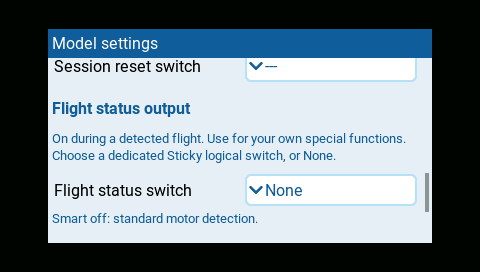
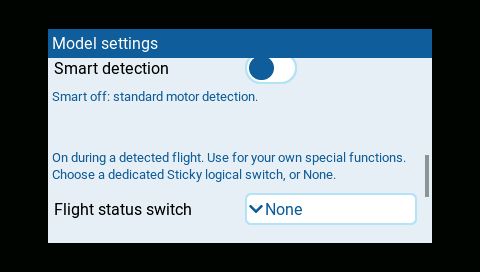
Move Flight status switch into Flight detection
Place the Flight status switch at the end of the Flight detection section
in Model settings, show Smart status directly under Smart detection, and
refresh the Model settings screenshots and capture scripts.

diff --git a/tools/capture-editor.py b/tools/capture-editor.py
@@ -710,20 +710,19 @@ def capture(executable, library, directory, scene, shift=0):
             # activating UI setup when the gesture ends.
             script += "1100 288 120 1\n1110 300 122 1\n1120 300 122 0\n"
         if scene in ("model-settings-reset", "model-settings-bottom", "model-settings-switch", "model-settings-switch-select"):
-            ticks = (1350, 1550) if scene == "model-settings-reset" else (1350, 1550, 1750, 1950, 2150, 2350)
-            if scene == "model-settings-bottom":
-                ticks = (1350, 1550, 1750)
+            ticks = (1350, 1550, 1750) if scene == "model-settings-reset" else (1350, 1550)
             for tick in ticks:
                 script += (f"{tick} 390 220 1\n{tick + 20} 390 170 1\n"
                            f"{tick + 40} 390 110 1\n{tick + 60} 390 65 1\n"
                            f"{tick + 80} 390 65 0\n")
+            if scene != "model-settings-reset":
+                # Keeps Smart detection and the whole Flight status switch row in view.
+                script += "1750 390 220 1\n1770 390 190 1\n1790 390 160 1\n1810 390 130 1\n1830 390 130 0\n"
             if scene == "model-settings-reset":
-                script += "1750 390 220 1\n1770 390 200 1\n1790 390 180 1\n1810 390 160 1\n1830 390 160 0\n"
-            if scene == "model-settings-bottom":
-                # A short drag past the Require receiver row keeps the Flight status section in view.
+                # A short drag past the Flight status switch keeps the Session reset section in view.
                 script += "1950 390 220 1\n1970 390 200 1\n1990 390 180 1\n2010 390 160 1\n2030 390 160 0\n"
             if scene.startswith("model-settings-switch"):
-                script += "2600 320 62 1\n2620 320 62 0\n"
+                script += "2600 330 206 1\n2620 330 206 0\n"
             if scene == "model-settings-switch-select":
                 script += "2770 220 170 1\n2790 220 170 0\n"
         if scene in ("model-settings-autosave", "model-settings-exit", "model-settings-motor"):
